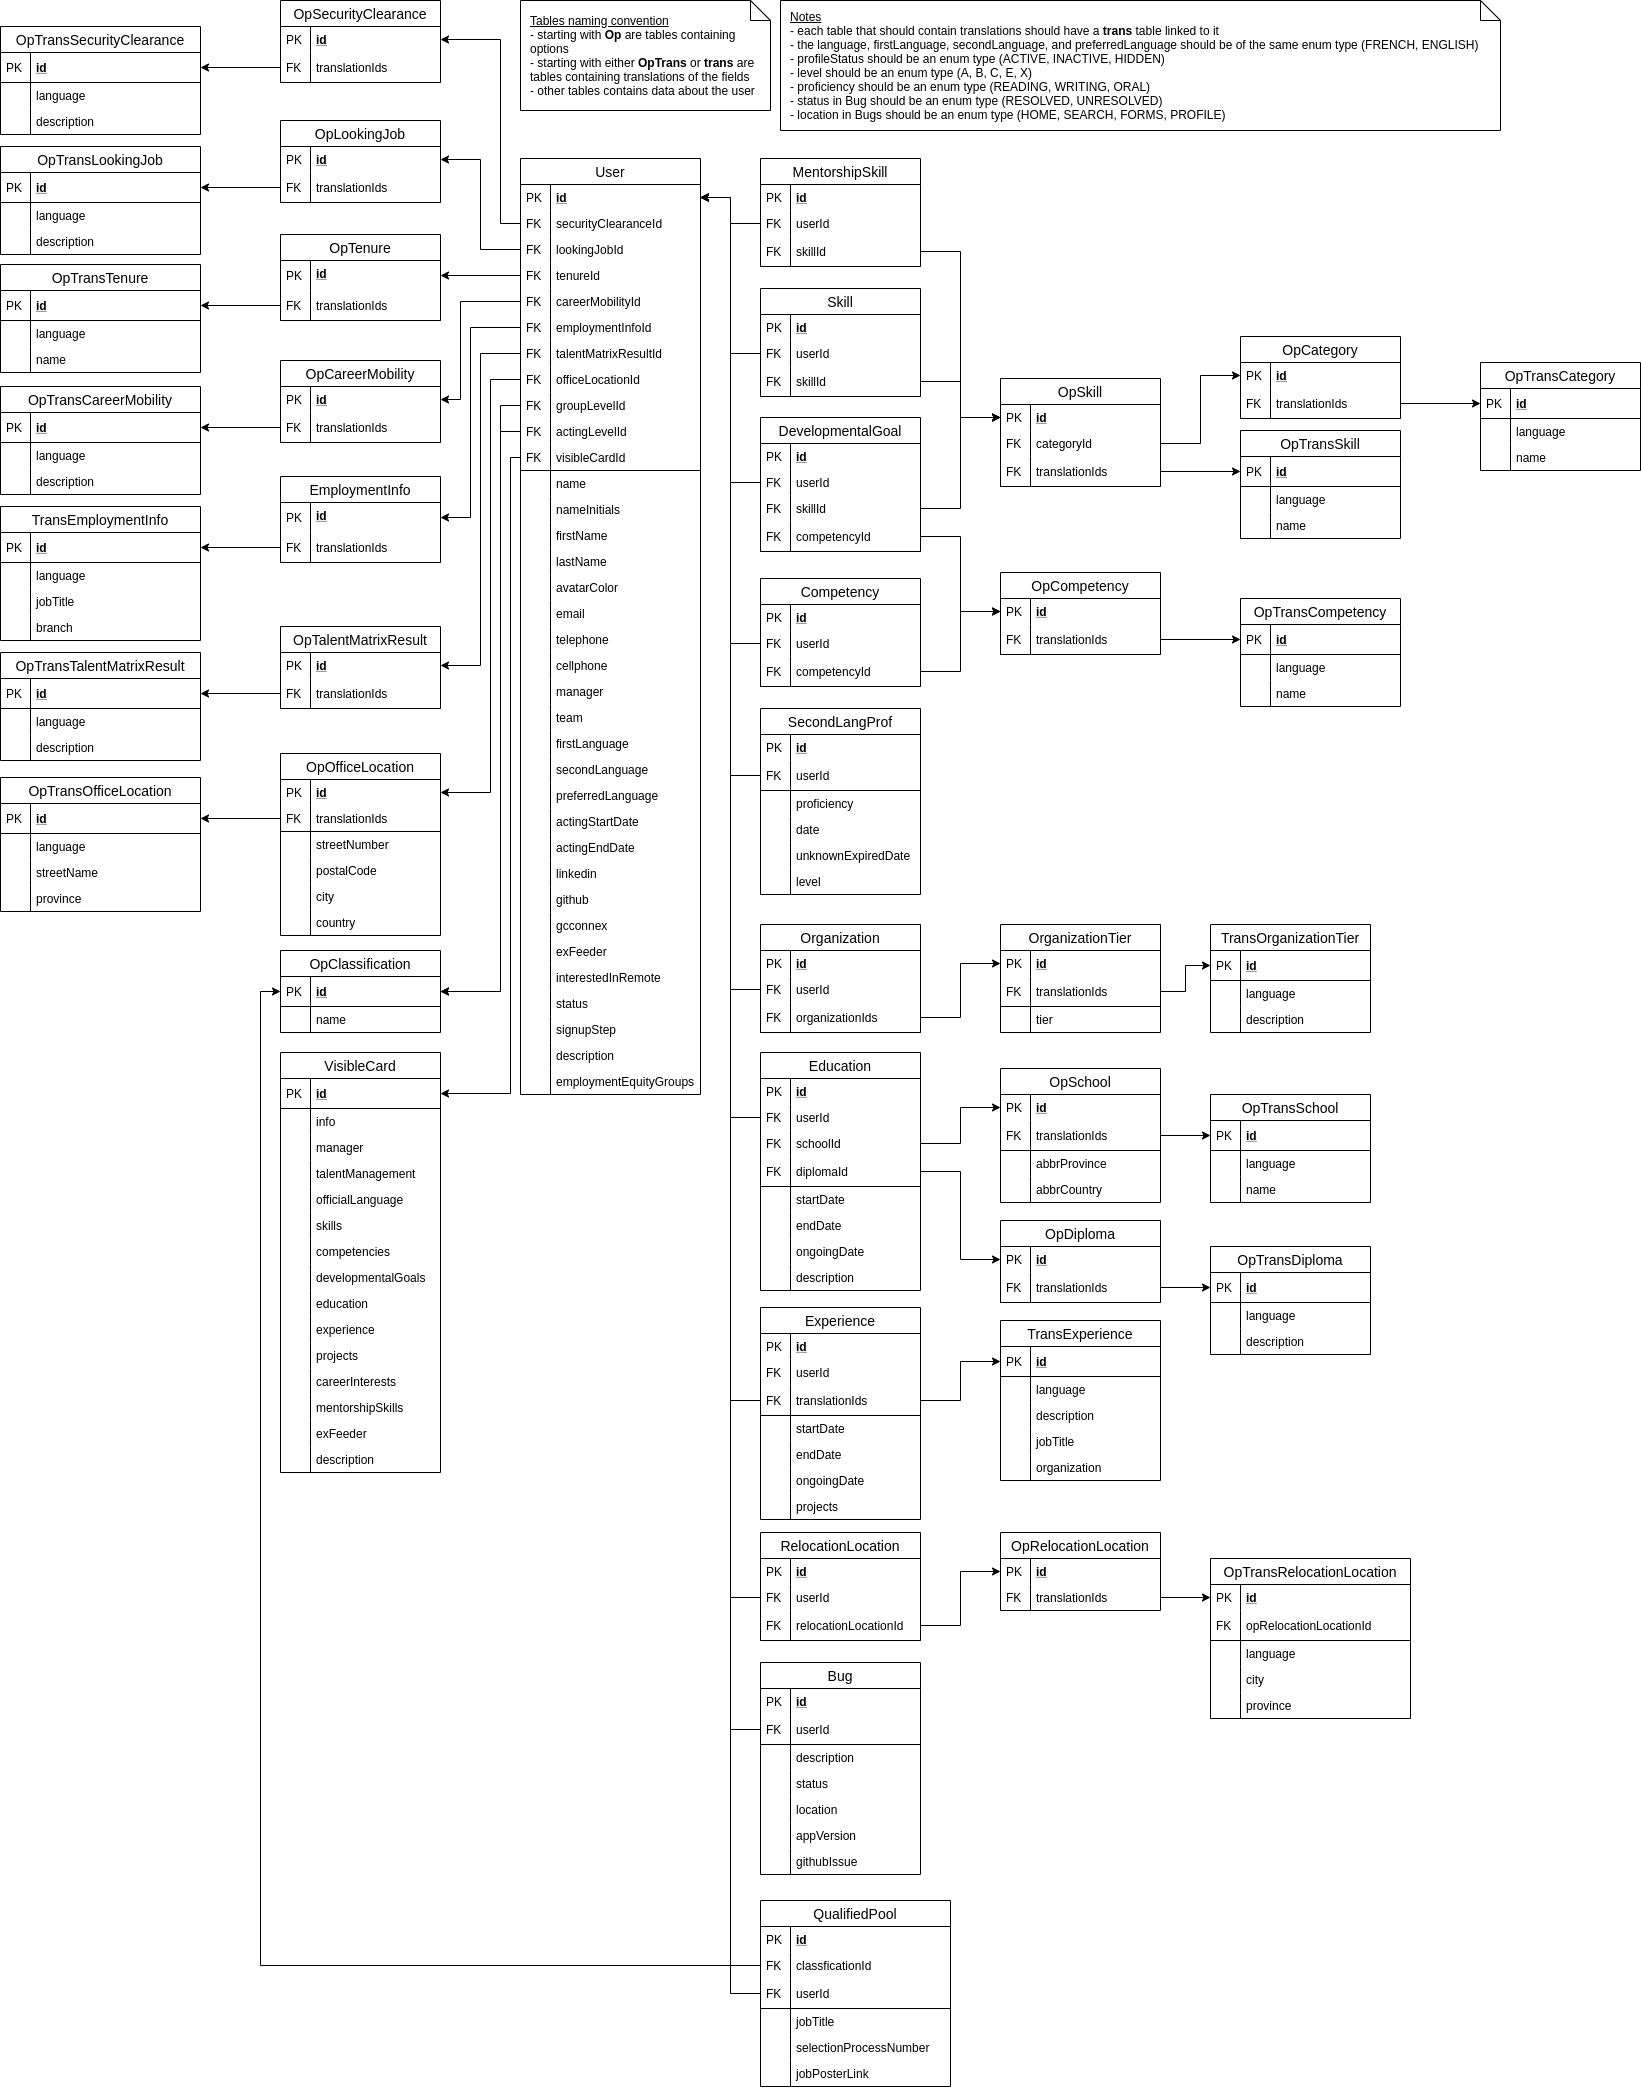
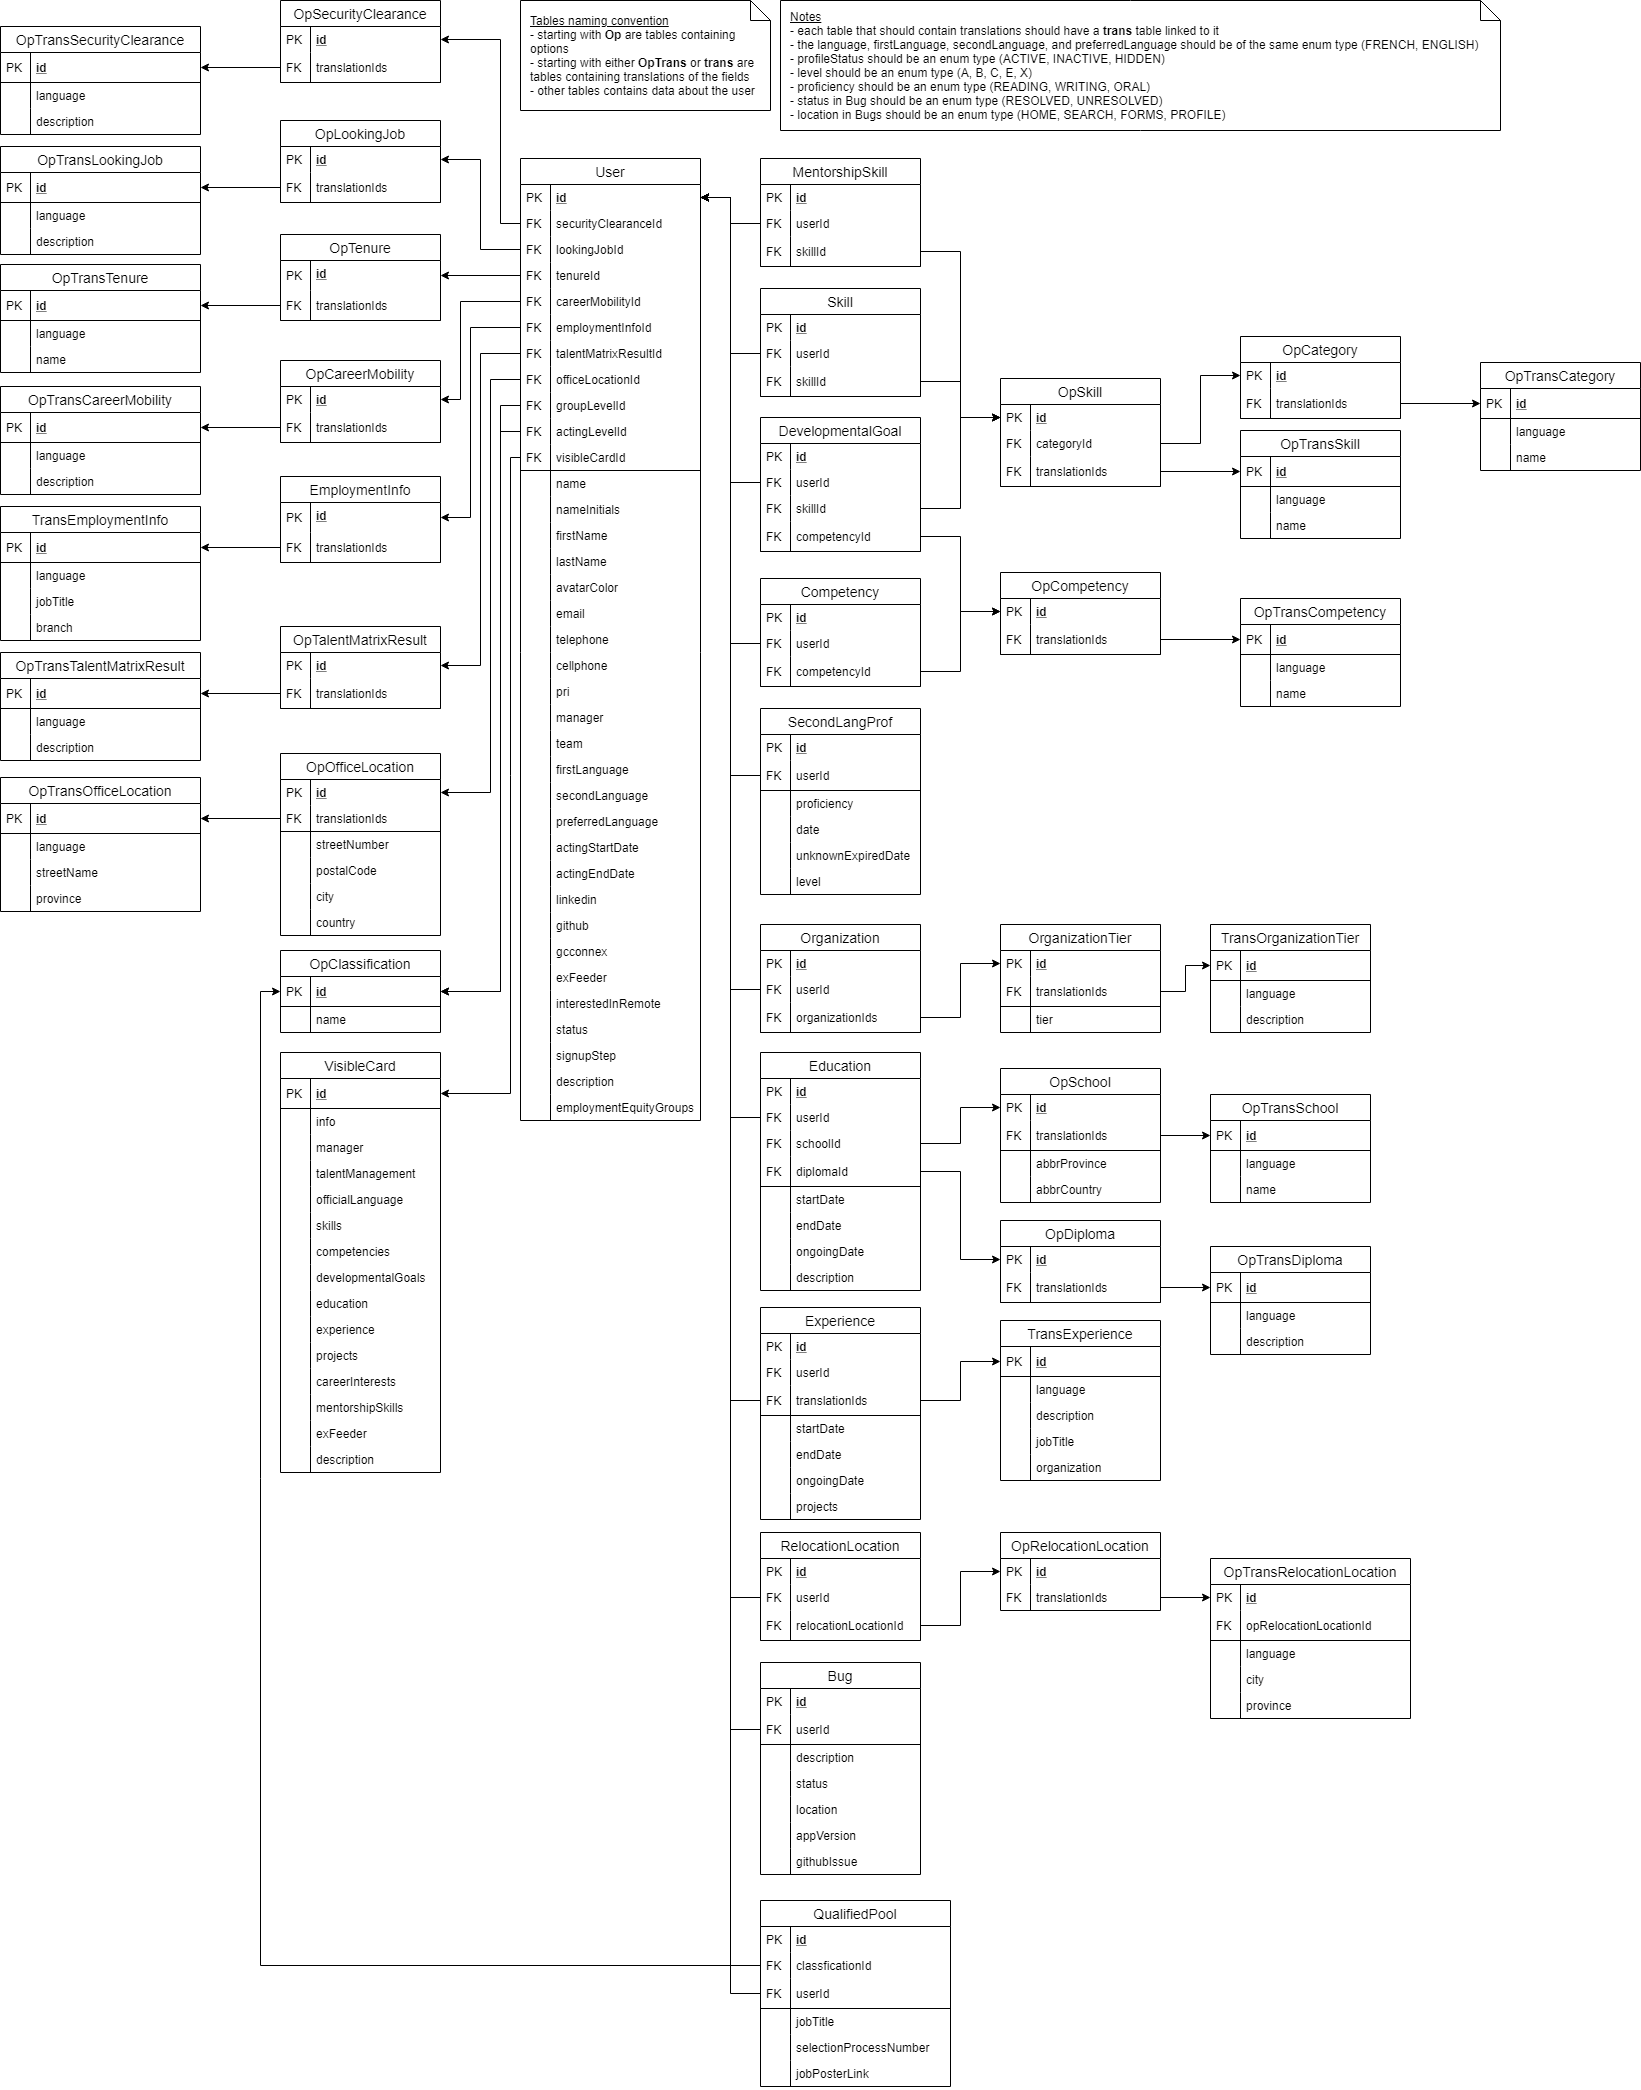
[Feat] Mandatory profile field for PRI number (#1225)
* Functioning PRI field

* Reduced coverage threshold

diff --git a/services/frontend/src/components/profileForms/primaryInfoForm/PrimaryInfoFormView.jsx b/services/frontend/src/components/profileForms/primaryInfoForm/PrimaryInfoFormView.jsx
@@ -104,6 +104,10 @@ const PrimaryInfoFormView = ({
       pattern: /^[a-zA-ZàâäèéêëîïôœùûüÿçÀÂÄÈÉÊËÎÏÔŒÙÛÜŸÇ]+$|^([a-zA-ZàâäèéêëîïôœùûüÿçÀÂÄÈÉÊËÎÏÔŒÙÛÜŸÇ]+(-|\s)[a-zA-ZàâäèéêëîïôœùûüÿçÀÂÄÈÉÊËÎÏÔŒÙÛÜŸÇ]+)*$/,
       message: <FormattedMessage id="rules.name" />,
     },
+    priFormat: {
+      pattern: /(?=^[0-9]{8}$)(?=^(?!.*(\w)\1{1,}).+$)/,
+      message: <FormattedMessage id="rules.valid.pri" />,
+    },
   };
 
   /**
@@ -160,6 +164,7 @@ const PrimaryInfoFormView = ({
         telephone: profile.telephone,
         jobTitle: profile.jobTitle,
         cellphone: profile.cellphone,
+        pri: profile.pri,
         email: profile.email,
         locationId: profile.officeLocation
           ? profile.officeLocation.id
@@ -481,15 +486,11 @@ const PrimaryInfoFormView = ({
             </Col>
             <Col className="gutter-row" xs={24} md={8} lg={8} xl={8}>
               <Form.Item
-                name="teams"
-                label={<FormattedMessage id="employee.work.unit" />}
-                className="custom-bubble-select-style"
+                name="pri"
+                label={<FormattedMessage id="pri" />}
+                rules={[Rules.required, Rules.priFormat]}
               >
-                <Select
-                  mode="tags"
-                  style={{ width: "100%" }}
-                  notFoundContent={<FormattedMessage id="press.enter.to.add" />}
-                />
+                <Input />
               </Form.Item>
             </Col>
           </Row>
@@ -538,6 +539,22 @@ const PrimaryInfoFormView = ({
             </Col>
           </Row>
           {/* Form Row Four */}
+          <Row gutter={24}>
+            <Col className="gutter-row" span={24}>
+              <Form.Item
+                name="teams"
+                label={<FormattedMessage id="employee.work.unit" />}
+                className="custom-bubble-select-style"
+              >
+                <Select
+                  mode="tags"
+                  style={{ width: "100%" }}
+                  notFoundContent={<FormattedMessage id="press.enter.to.add" />}
+                />
+              </Form.Item>
+            </Col>
+          </Row>
+          {/* Form Row Five */}
           <Row
             gutter={24}
             style={{

diff --git a/services/backend/src/database/seeds/20200610120406-fake-users-info/data/users.js b/services/backend/src/database/seeds/20200610120406-fake-users-info/data/users.js
@@ -8,6 +8,7 @@ module.exports = [
     lastName: "Doe",
     telephone: "713-123-4567",
     cellphone: "613-987-6543",
+    pri: "123456789",
     manager: "Chahine El Chaar",
     teams: ["CDH Studio", "I-talent"],
     firstLanguage: "ENGLISH",
@@ -161,6 +162,7 @@ module.exports = [
     lastName: "Doe",
     telephone: "343-123-4567",
     cellphone: "613-123-4567",
+    pri: "987654321",
     manager: "Chahine El Chaar",
     teams: ["CDH Studio"],
     firstLanguage: "FRENCH",

diff --git a/services/backend/src/core/profile/util/updateProfile.js b/services/backend/src/core/profile/util/updateProfile.js
@@ -41,6 +41,7 @@ async function updateProfile(request, userId, language) {
     teams,
     telephone,
     cellphone,
+    pri,
     linkedin,
     github,
     gcconnex,
@@ -367,6 +368,7 @@ async function updateProfile(request, userId, language) {
         : undefined,
       telephone,
       cellphone,
+      pri,
       linkedin,
       github,
       gcconnex,

diff --git a/services/backend/src/database/seeds/20200610120406-fake-users-info/index.js b/services/backend/src/database/seeds/20200610120406-fake-users-info/index.js
@@ -325,6 +325,7 @@ async function seedUsers() {
     async ({
       name,
       email,
+      pri,
       cellphone,
       firstLanguage,
       firstName,
@@ -393,6 +394,7 @@ async function seedUsers() {
         data: {
           name,
           email,
+          pri,
           cellphone,
           firstLanguage,
           firstName,

diff --git a/services/backend/src/core/profile/util/filterProfileVisibility.js b/services/backend/src/core/profile/util/filterProfileVisibility.js
@@ -33,6 +33,10 @@ function filterProfileVisibility(request, profileResult, userId) {
     employmentEquityGroup: true,
   };
 
+  if (result.pri) {
+    delete result.pri;
+  }
+
   /**
    * Check visibility of card based on user accessing it
    * @param {String} key - id of the card.

diff --git a/services/backend/src/core/profile/util/getProfile.js b/services/backend/src/core/profile/util/getProfile.js
@@ -19,6 +19,7 @@ async function getFullProfile(id, language) {
       email: true,
       telephone: true,
       cellphone: true,
+      pri: true,
       manager: true,
       teams: true,
       firstLanguage: true,

diff --git a/services/backend/src/database/migrations/20201112060647-add-qualified-pools-table/README.md b/services/backend/src/database/migrations/20201112060647-add-qualified-pools-table/README.md
@@ -497,6 +497,7 @@ CREATE TABLE "public"."User" (
 "email" text   ,
 "telephone" text   ,
 "cellphone" text   ,
+"pri" text   ,
 "manager" text   ,
 "description" text   ,
 "firstLanguage" "Language"  ,
@@ -1181,5 +1182,3 @@ migration 20201109171010-create-user-bugs..20201112060647-add-qualified-pools-ta
    organizations                 Organization[]
    educations                    Education[]
 ```
-
-

diff --git a/services/backend/src/database/migrations/20201019154547-init/README.md b/services/backend/src/database/migrations/20201019154547-init/README.md
@@ -467,6 +467,7 @@ CREATE TABLE "public"."User" (
 "email" text   ,
 "telephone" text   ,
 "cellphone" text   ,
+"pri" text   ,
 "manager" text   ,
 "description" text   ,
 "firstLanguage" "Language"  ,
@@ -1244,5 +1245,3 @@ migration ..20201019154547-init
 +  userId                        String?
 +}
 ```
-
-
